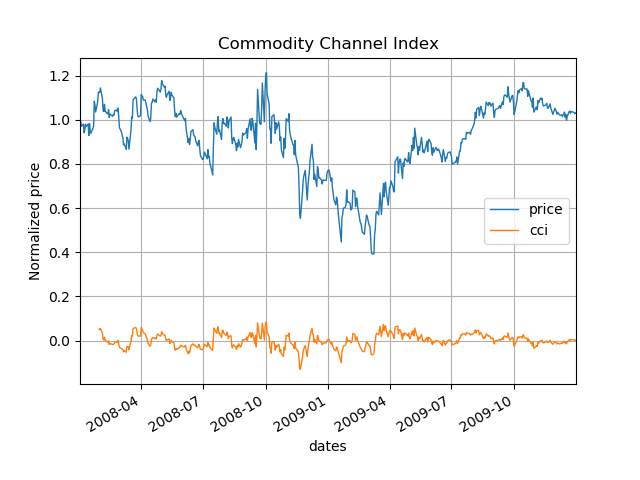
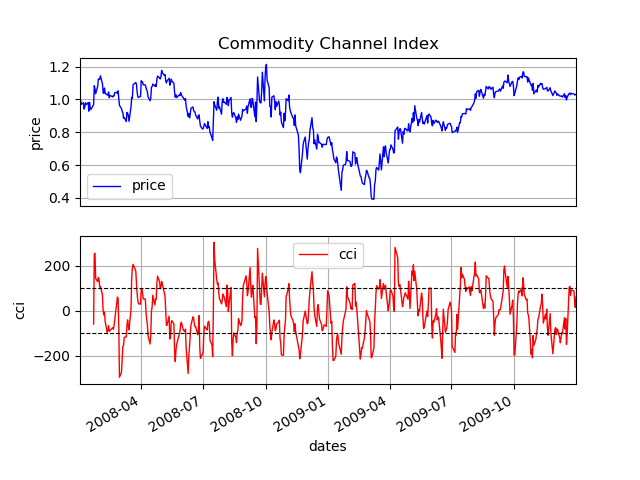
more changes. Still need report

diff --git a/indicator_evaluation/indicators.py b/indicator_evaluation/indicators.py
@@ -11,6 +11,25 @@ import pandas as pd
 from util import get_data, plot_data
 import matplotlib.pyplot as plt
 
+
+
+def getCCI(dates):
+   df = pd.DataFrame(index=dates)
+   # get High, Low, and adj close
+   df['High'] = get_data(["JPM"], dates, addSPY=False, colname="High")
+   df['Low'] = get_data(["JPM"], dates, addSPY=False, colname="Low")
+   df['Close'] = get_data(["JPM"], dates, addSPY=False, colname="Close")
+   # ffill and bfill
+   df.fillna(method='ffill', inplace=True)
+   df.fillna(method='bfill', inplace=True)
+
+   # get tp values
+   df['tp'] = (df['High'] + df['Low'] + df['Close']) / 3
+   df['sma'] = df['tp'].rolling(14).mean()
+   df['mad'] = df['tp'].rolling(14).apply(lambda x: pd.Series(x).mad(),raw=True)
+   df['CCI'] = (df['tp'] - df['sma']) / (0.015 * df['mad'])
+   return df
+
 def getMomentum(prices):
    momentum = pd.DataFrame(index=prices.index)
    momentum['momentum'] = 0.0
@@ -44,7 +63,7 @@ def getBollingerBand(prices):
 
 # get indicators will return Bollinger bands, price/SMA crossover, RSI
 
-def getIndicators(prices):
+def getIndicators(prices, start_date, end_date):
    # normalize prices
    normed_prices = prices/prices.iloc[0][0]
    
@@ -61,9 +80,9 @@ def getIndicators(prices):
    df_indicators['sma'].plot(grid=True, linewidth= 0.8)
    plt.xlabel('dates')
    plt.ylabel('Normalized return')
-   plt.title('sma and price/sma')
+   plt.title('price/sma cross')
    plt.legend(["price","sma","price/sma"])
-   plt.savefig('./images/sma-smaRatio.png')
+   plt.savefig('./images/price-sma-cross.png')
    plt.clf()
    
    # 2. bollinger bands
@@ -90,7 +109,7 @@ def getIndicators(prices):
    ax_2 = df_indicators['momentum'].plot(grid=True,ax=axes_1[1], label='momentum', linewidth=1, color='black' )
    ax_1.legend(['price'])
    ax_1.set_xticks([])
-   ax_2.axhline(linewidth=0.8, color='r',linestyle='--')
+   ax_2.axhline(linewidth=1, color='r',linestyle='--')
    ax_2.legend(['momentum','buy-sell line'])
    ax_1.set_ylabel('price')
    ax_2.set_xlabel('date')
@@ -101,14 +120,22 @@ def getIndicators(prices):
    plt.clf()
 
    # 4. cci
-   cci = (normed_prices - normed_prices.rolling(window=20).mean() )/(2.5-normed_prices.std())
-   df_indicators['cci'] = cci
-   df_indicators['price'].plot(grid=True,label='price', linewidth=1 )
-   df_indicators['cci'].plot(grid=True,label='cci', linewidth=1 )
+   #import pdb;pdb.set_trace()
+   fig, axes_2 = plt.subplots(nrows=2)
+   cci = getCCI(prices.index)#(prices - prices.rolling(window=20).mean() )/(2.5-prices.std())
+   chart1 = df_indicators['price'].plot(ax=axes_2[0],grid=True,label='price', linewidth=1, color='blue' )
+   chart2 = cci['CCI'].plot(ax=axes_2[1],grid=True,label='cci', linewidth=1, color='red')
+   chart1.set_xticks([])
+   chart2.set_xlabel('date')
+   chart1.set_title('Commodity Channel Index')
+   chart1.set_ylabel('price')
+   chart2.set_ylabel('cci')
+   chart1.legend(['price'])
+   chart2.legend(['cci'])
+   chart2.axhline(y=100, linewidth=0.8, color='black',linestyle='--')
+   chart2.axhline(y=-100, linewidth=0.8, color='black',linestyle='--')
    plt.xlabel('dates')
-   plt.ylabel('Normalized price')
-   plt.title('Commodity Channel Index')
-   plt.legend(["price","cci"])
+   plt.ylabel('cci')
    plt.savefig('./images/cci.png')
    plt.clf()
 

diff --git a/indicator_evaluation/testproject.py b/indicator_evaluation/testproject.py
@@ -82,6 +82,6 @@ if __name__ == "__main__":
    prices.fillna(method='bfill', inplace=True)
    # only keep data for symbols in our portfolio
    prices.drop(columns=["SPY"], inplace=True)
-   getIndicators(prices)
+   getIndicators(prices, start_date, end_date)
 
 
